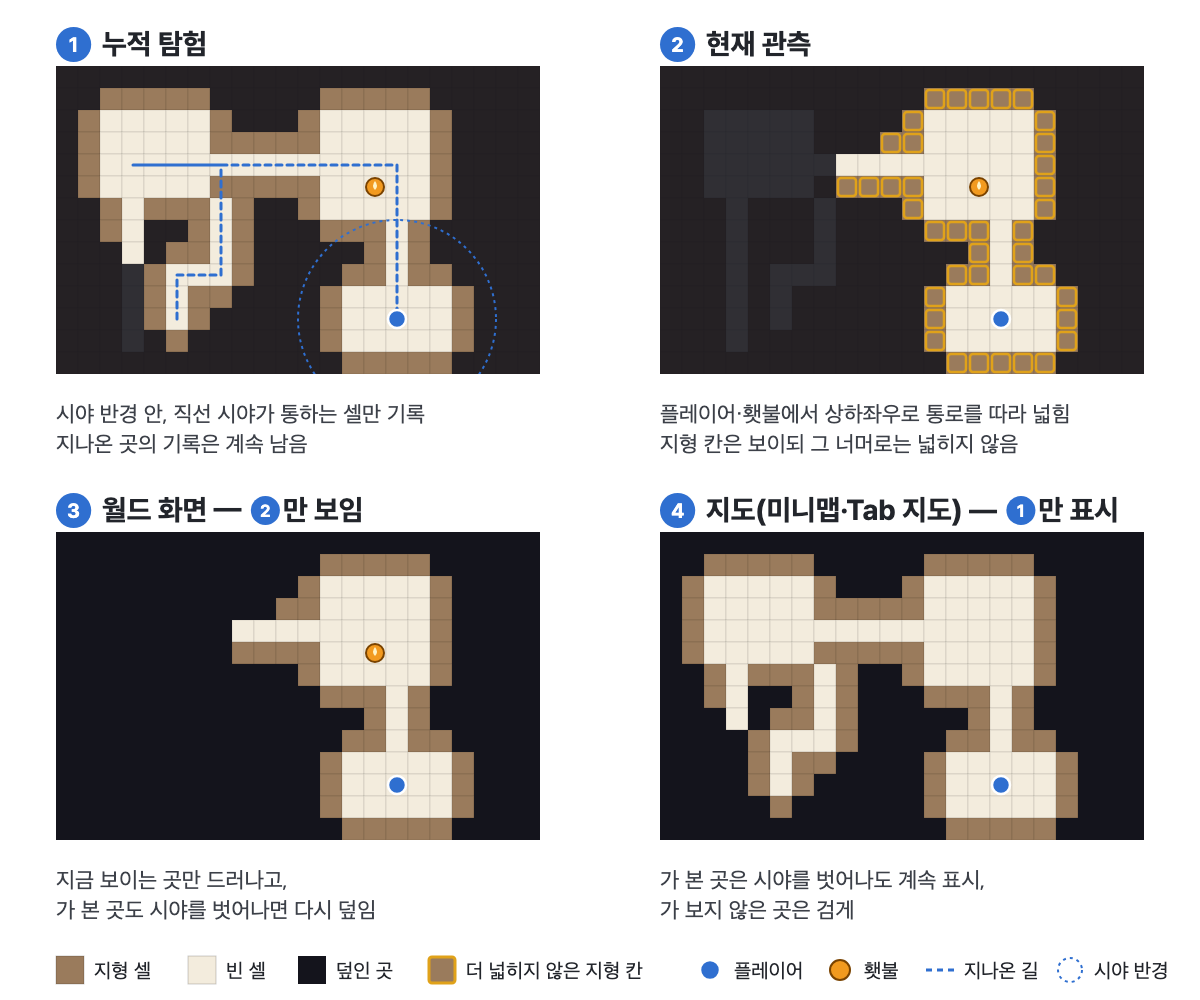
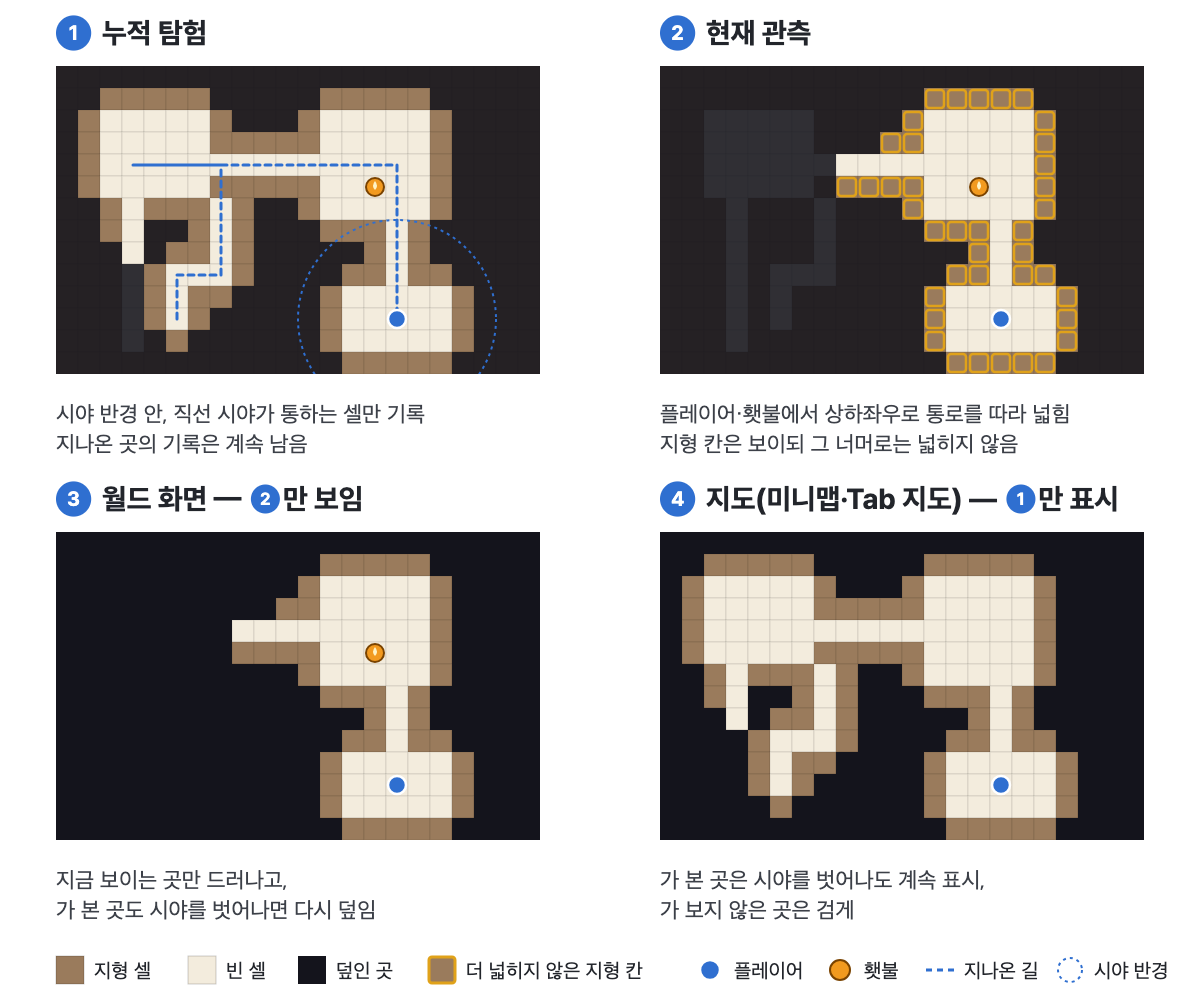
프로젝트 문서: Folk Sack 아이템 장 구성·이미지 다듬기, 데이터 다시 빌드

diff --git a/src/2-Folk-Sack/TechDoc_FolkSack.md b/src/2-Folk-Sack/TechDoc_FolkSack.md
@@ -94,7 +94,7 @@ flowchart TB
 - **여러 덩어리가 동시에 떨어짐:** 덩어리마다 번호(`CollapseID`)와 담당 플레이어를 따로 둡니다(§3.4).
 - **떨어진 덩어리가 자리 잡자마자 다시 무너질 수 있음:** 서버가 배치를 확정한 뒤 다시 검사합니다(§3.5).
 - **땅을 파서 공간을 만들었는데 깔림이 풀리지 않음:** 물리 충돌 정보가 갱신될 때까지 기다린 뒤 다시 판정합니다(§8.2).
-- **서버가 거절한 아이템을 쓴 것처럼 보임:** 거절되면 쿨타임을 취소하고 서버 상태로 되돌립니다(§5.3).
+- **서버가 거절한 아이템을 쓴 것처럼 보임:** 거절되면 쿨타임을 취소하고 서버 상태로 되돌립니다(§5.2).
 - **이미 가 본 곳과 지금 보이는 곳이 섞임:** 탐험 기록과 현재 시야를 따로 저장합니다(§6).
 
 ### 1.3 개발 환경
@@ -125,7 +125,7 @@ flowchart TB
 |---|---|---|
 | 맵 생성·지형 동기화 | 시드 기반 절차적 맵 데이터 생성, 채굴·붕괴의 서버 확정, 상태 변경·송신 분리, 여러 덩어리의 동시 낙하와 연쇄 붕괴 안정화 | 팀원 2의 서버 초기 구조 위에 구현. 채굴 요청 검사 제거·굴착 요청별 대기·낙하 취소와 매몰 정리는 강사님의 도움 |
 | 낙하 지형·매몰 | 낙하 청크 충돌, 탈출·매몰 판정, 플레이어 조작 책임 분리 | 이동 충돌을 실제 콜라이더 모양 Cast로 고친 것은 팀원 2, 벽 잡기는 팀원 1이 처음 구현(§4.3) |
-| 인벤토리·아이템 연결 | 서버가 확정한 상태를 인벤토리·HUD에 반영, 거절된 사용의 쿨타임 취소 | 아이템·상점·쿨타임은 팀원 1, `InventoryView`는 팀원 2(§5.2·§5.3) |
+| 인벤토리·아이템 연결 | 서버가 확정한 상태를 인벤토리·HUD에 반영, 거절된 사용의 쿨타임 취소 | 아이템·상점·쿨타임은 팀원 1, `InventoryView`는 팀원 2(§5.2) |
 | 탐험·지도 | 누적 탐험과 현재 관측, 월드 안개·미니맵·전체 지도 | — |
 | 로비·UI | 로비·대기방·채팅·승자 표시와 HUD·메뉴·설정 코드 | 화면 그래픽과 레이아웃은 팀원 2(§7.3) |
 
@@ -181,7 +181,7 @@ flowchart TB
 
 - **지형 변경은 서버가 확정하고, 낙하 물리는 클라이언트가 제안합니다.** 서버가 지형의 변경만 알도록 해 멀티플레이 레이턴시를 줄이고, 낙하 궤적은 소유 클라이언트가 계산해 제안하면 서버가 예약·배치 규칙을 검사해 확정합니다(§3.7).
 - **초기 맵은 보내지 않고 양쪽에서 같은 시드로 다시 만듭니다.** 초기 전체 맵 전송 부담을 줄이는 대신 생성기·난수 순서·데이터를 양쪽에서 맞춰야 하므로, 정규화한 TSV 해시로 테이블 차이를 검사합니다(§2.2·§2.7).
-- **인벤토리는 서버 스냅샷으로 통째로 교체합니다.** 지형보다 크기가 작아, 획득·판매·사망 등 여러 경로의 결과를 하나의 기준으로 복원합니다(§5.4).
+- **인벤토리는 서버 스냅샷으로 통째로 교체합니다.** 지형보다 크기가 작아, 획득·판매·사망 등 여러 경로의 결과를 하나의 기준으로 복원합니다(§5.3).
 
 ---
 
@@ -933,14 +933,13 @@ return collisionCount < bestCollisionCount;
 
 ## 5. 인벤토리·아이템·상점
 
-이 장은 게임에 어떤 아이템이 있고 플레이어가 무엇을 하는지(§5.1), 아이템 요청을 서버가 어떻게 확정하고 화면에 반영하는지(§5.2)를 정리합니다.
 
 ### 5.1 개요 — 아이템 구성과 역할
 
-![다이너마이트로부터 도망치는 두 플레이어](images/dynamite-throw.png)
+![다이너마이트로부터 도망치는 두 플레이어](images/dynamite-throw.png) ![상점의 아이템 탭 — 다이너마이트·포션·탐지기·지뢰·횃불과 가격](images/shop-items.png)
 
 아이템은 세 갈래입니다. 캐는 데 쓰는 **장비(곡괭이)**, 탐험을 돕는 **사용 아이템**, 캐서 모아 파는 **광물·원석**입니다.
-이 장에서 다루는 부분은 아이템의 종류·효과가 아니라, 이 아이템들의 수량·무게·장착 상태를 서버가 확정하고 화면에 반영하는 연결입니다.
+아이템의 종류·효과와 사용 구조는 팀원이 구현했고, 저는 그 위에 수량·무게·장착 상태를 서버가 확정하고 화면에 반영하도록 연결했습니다.
 
 | 갈래 | 아이템 | 플레이어가 하는 일 | 인벤토리에서 |
 |---|---|---|---|
@@ -950,7 +949,7 @@ return collisionCount < bestCollisionCount;
 
 골드로 장비를 바꾸고 사용 아이템을 사서 더 깊이 내려가는 것이 §1.1 게임 루프의 "판매 → 상점" 부분입니다.
 
-### 5.2 아이템 요청과 서버 전체 상태로 교체
+### 5.2 서버가 확정하는 아이템 요청
 
 아이템을 줍고, 버리고, 팔고, 사고, 쓰는 모든 행동은 클라이언트(`RoomClient`)가 서버에 요청하고 서버가 검사해 확정합니다.
 인벤토리를 바꾸는 요청의 응답은 모두 `InventorySnapshot`, 곧 서버가 확정한 인벤토리 전체 상태입니다.
@@ -982,6 +981,8 @@ sequenceDiagram
 
 이 다이어그램은 획득·버리기·판매·구매·사용 요청을 서버가 검증·확정한 뒤, 받은 인벤토리 전체 상태로 수량·무게와 장착 곡괭이를 교체하고 HUD에 다시 표시하는 흐름을 도식화한 것입니다.
 
+#### 확정된 인벤토리로 통째로 교체
+
 `PlayerInventory`는 ItemID별 수량과 무게를 관리합니다.
 `ReplaceWithSnapshot()`은 서버 전체 상태를 수신해 교체하고, 실제 수량이 바뀐 아이템의 이벤트를 발생시킵니다.
 서버가 확정한 상태를 클라이언트의 로컬 무게 제한으로 거절하지 않도록 처리합니다.
@@ -993,7 +994,9 @@ sequenceDiagram
 
 소스: [GameSession.cs](https://github.com/KooHoo-Dev/3rd-TeamProject-KH-Server/blob/main/HelloServer/Game/GameSession.cs), [PlayerSellController.cs](https://github.com/keeeery/Folk-Sack/blob/main/Assets/02.%20Scripts/Item/Inventory/PlayerSellController.cs).
 
-### 5.3 아이템 사용 거절과 쿨타임
+#### 거절된 사용의 쿨타임 취소
+
+![하단 바의 아이템 슬롯 — 포션 칸에 쿨타임이 돌고 있는 화면](images/item-cooldown-bar.png)
 
 아이템을 쓰면 서버의 응답을 기다리지 않고 화면의 쿨타임을 먼저 시작합니다.
 그래서 서버가 사용을 거절하면 이미 시작한 쿨타임을 취소해야 합니다.
@@ -1010,7 +1013,9 @@ if (message == null || string.IsNullOrEmpty(message.RequestId) ||
 itemReadyTime.Remove(pending.ItemID);
 ```
 
-### 5.4 고민과 선택
+소스: [ItemController.cs](https://github.com/keeeery/Folk-Sack/blob/main/Assets/02.%20Scripts/Item/ItemController.cs).
+
+### 5.3 고민과 선택
 
 **인벤토리 변경을 어떻게 반영할까 — 서버 스냅샷으로 통째로 교체**
 
@@ -1260,7 +1265,7 @@ if (isBuried == false || IsGridSpaceEmpty(character.CollisionBounds) == false) r
 
 - **증상:** 서버가 아이템 사용을 거절한 뒤에도 쿨타임만 남았습니다.
 - **원인:** 요청과 예상 쿨타임이 연결되어 있지 않았습니다.
-- **해결:** RequestId별로 대기하고, 실패하면 쿨타임을 취소했습니다(§5.3).
+- **해결:** RequestId별로 대기하고, 실패하면 쿨타임을 취소했습니다(§5.2).
 - **결과:** 서버가 사용을 거절하면 화면의 쿨타임도 함께 사라집니다.
 - **배운 점:** 사용 요청과 사용 성공은 서로 다른 시점입니다(§9.3).
 
@@ -1280,7 +1285,7 @@ if (isBuried == false || IsGridSpaceEmpty(character.CollisionBounds) == false) r
 | 여러 덩어리가 동시에 떨어져도 모두 확정 | 요청별 배치 대기, CollapseID별 소유권 | §3.4 | 내 기여 (강사님 도움) |
 | 서버가 확정한 뒤에만 이어지는 연쇄 붕괴 | 물리 완료 콜백과 연쇄 검사 분리 | §3.5 | 내 기여 |
 | 땅을 파면 풀리는 매몰 | 매몰 해제를 Collider 겹침 대신 논리 셀 기준으로 판정 | §8.2 | 내 기여 (강사님 도움) |
-| 거절된 아이템 사용을 되돌리는 HUD | 실패한 요청의 예상 쿨타임 취소, 서버 인벤토리로 교체 | §5.2 · §5.3 | 내 기여 |
+| 거절된 아이템 사용을 되돌리는 HUD | 실패한 요청의 예상 쿨타임 취소, 서버 인벤토리로 교체 | §5.2 | 내 기여 |
 | 멈춰 있어도 지형이 바뀌면 갱신되는 시야 | 지형 변경 플래그로 시야 재계산 | §6.2 | 내 기여 |
 
 ### 9.2 한계와 개선 과제
